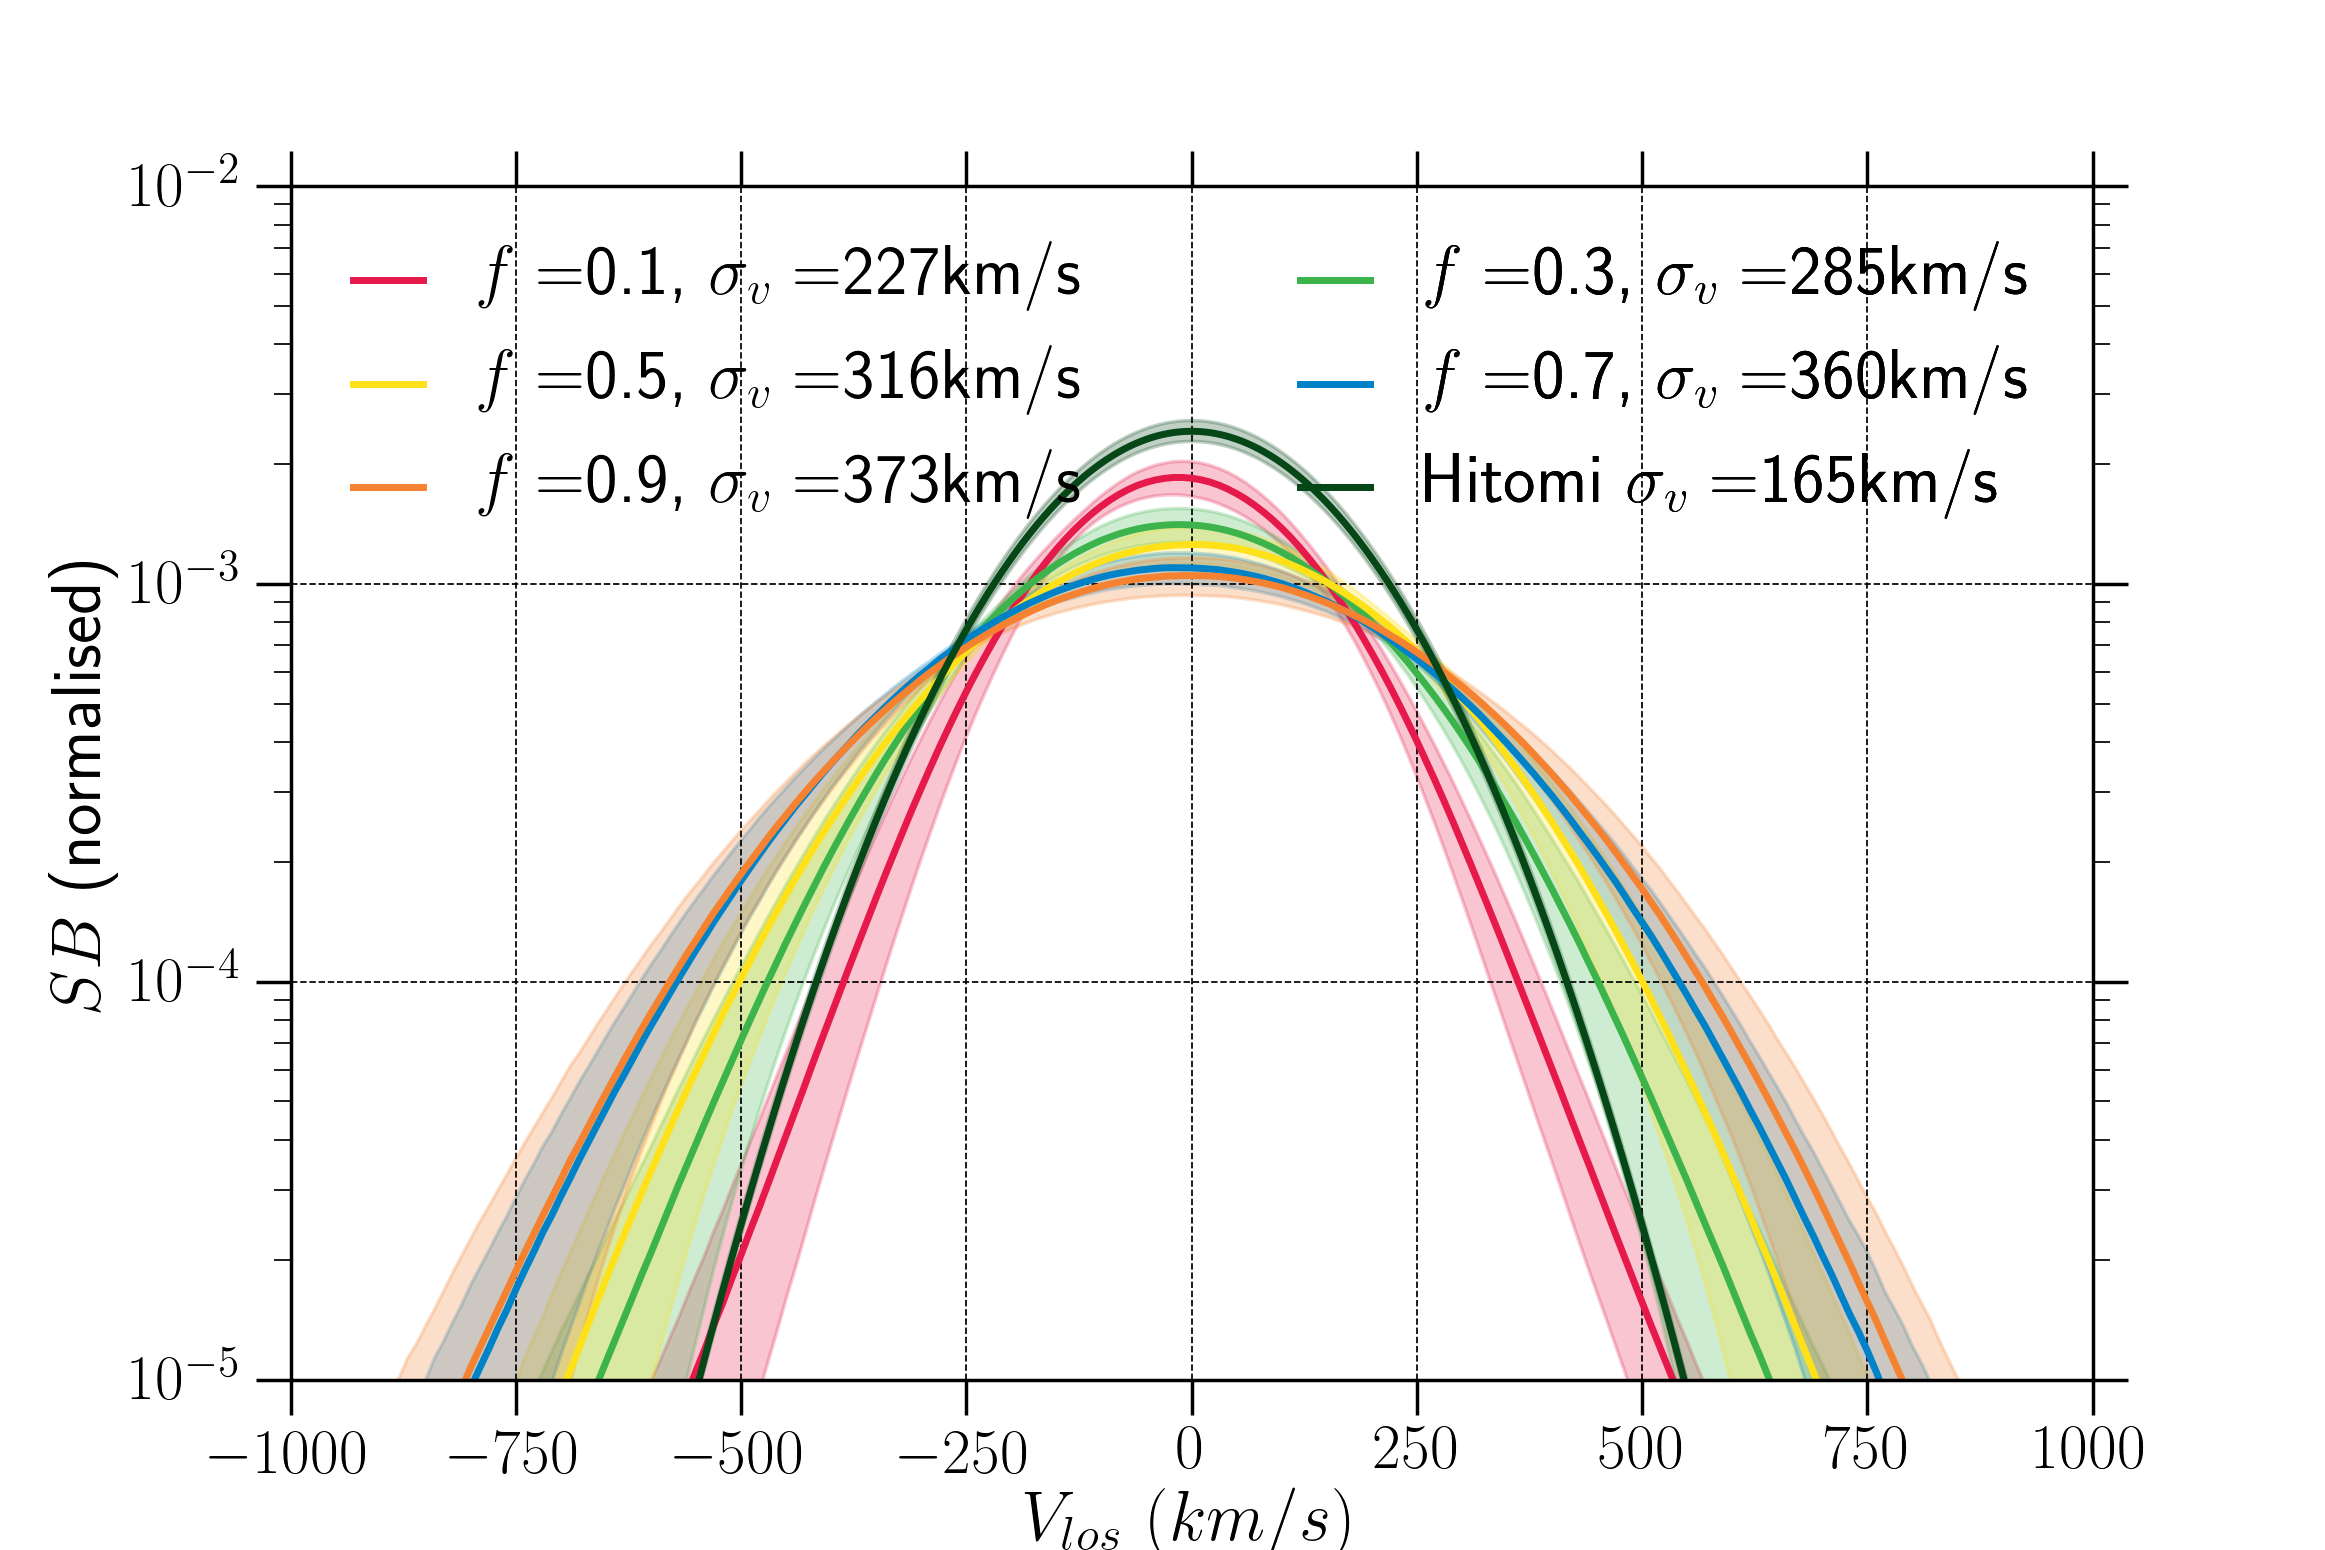
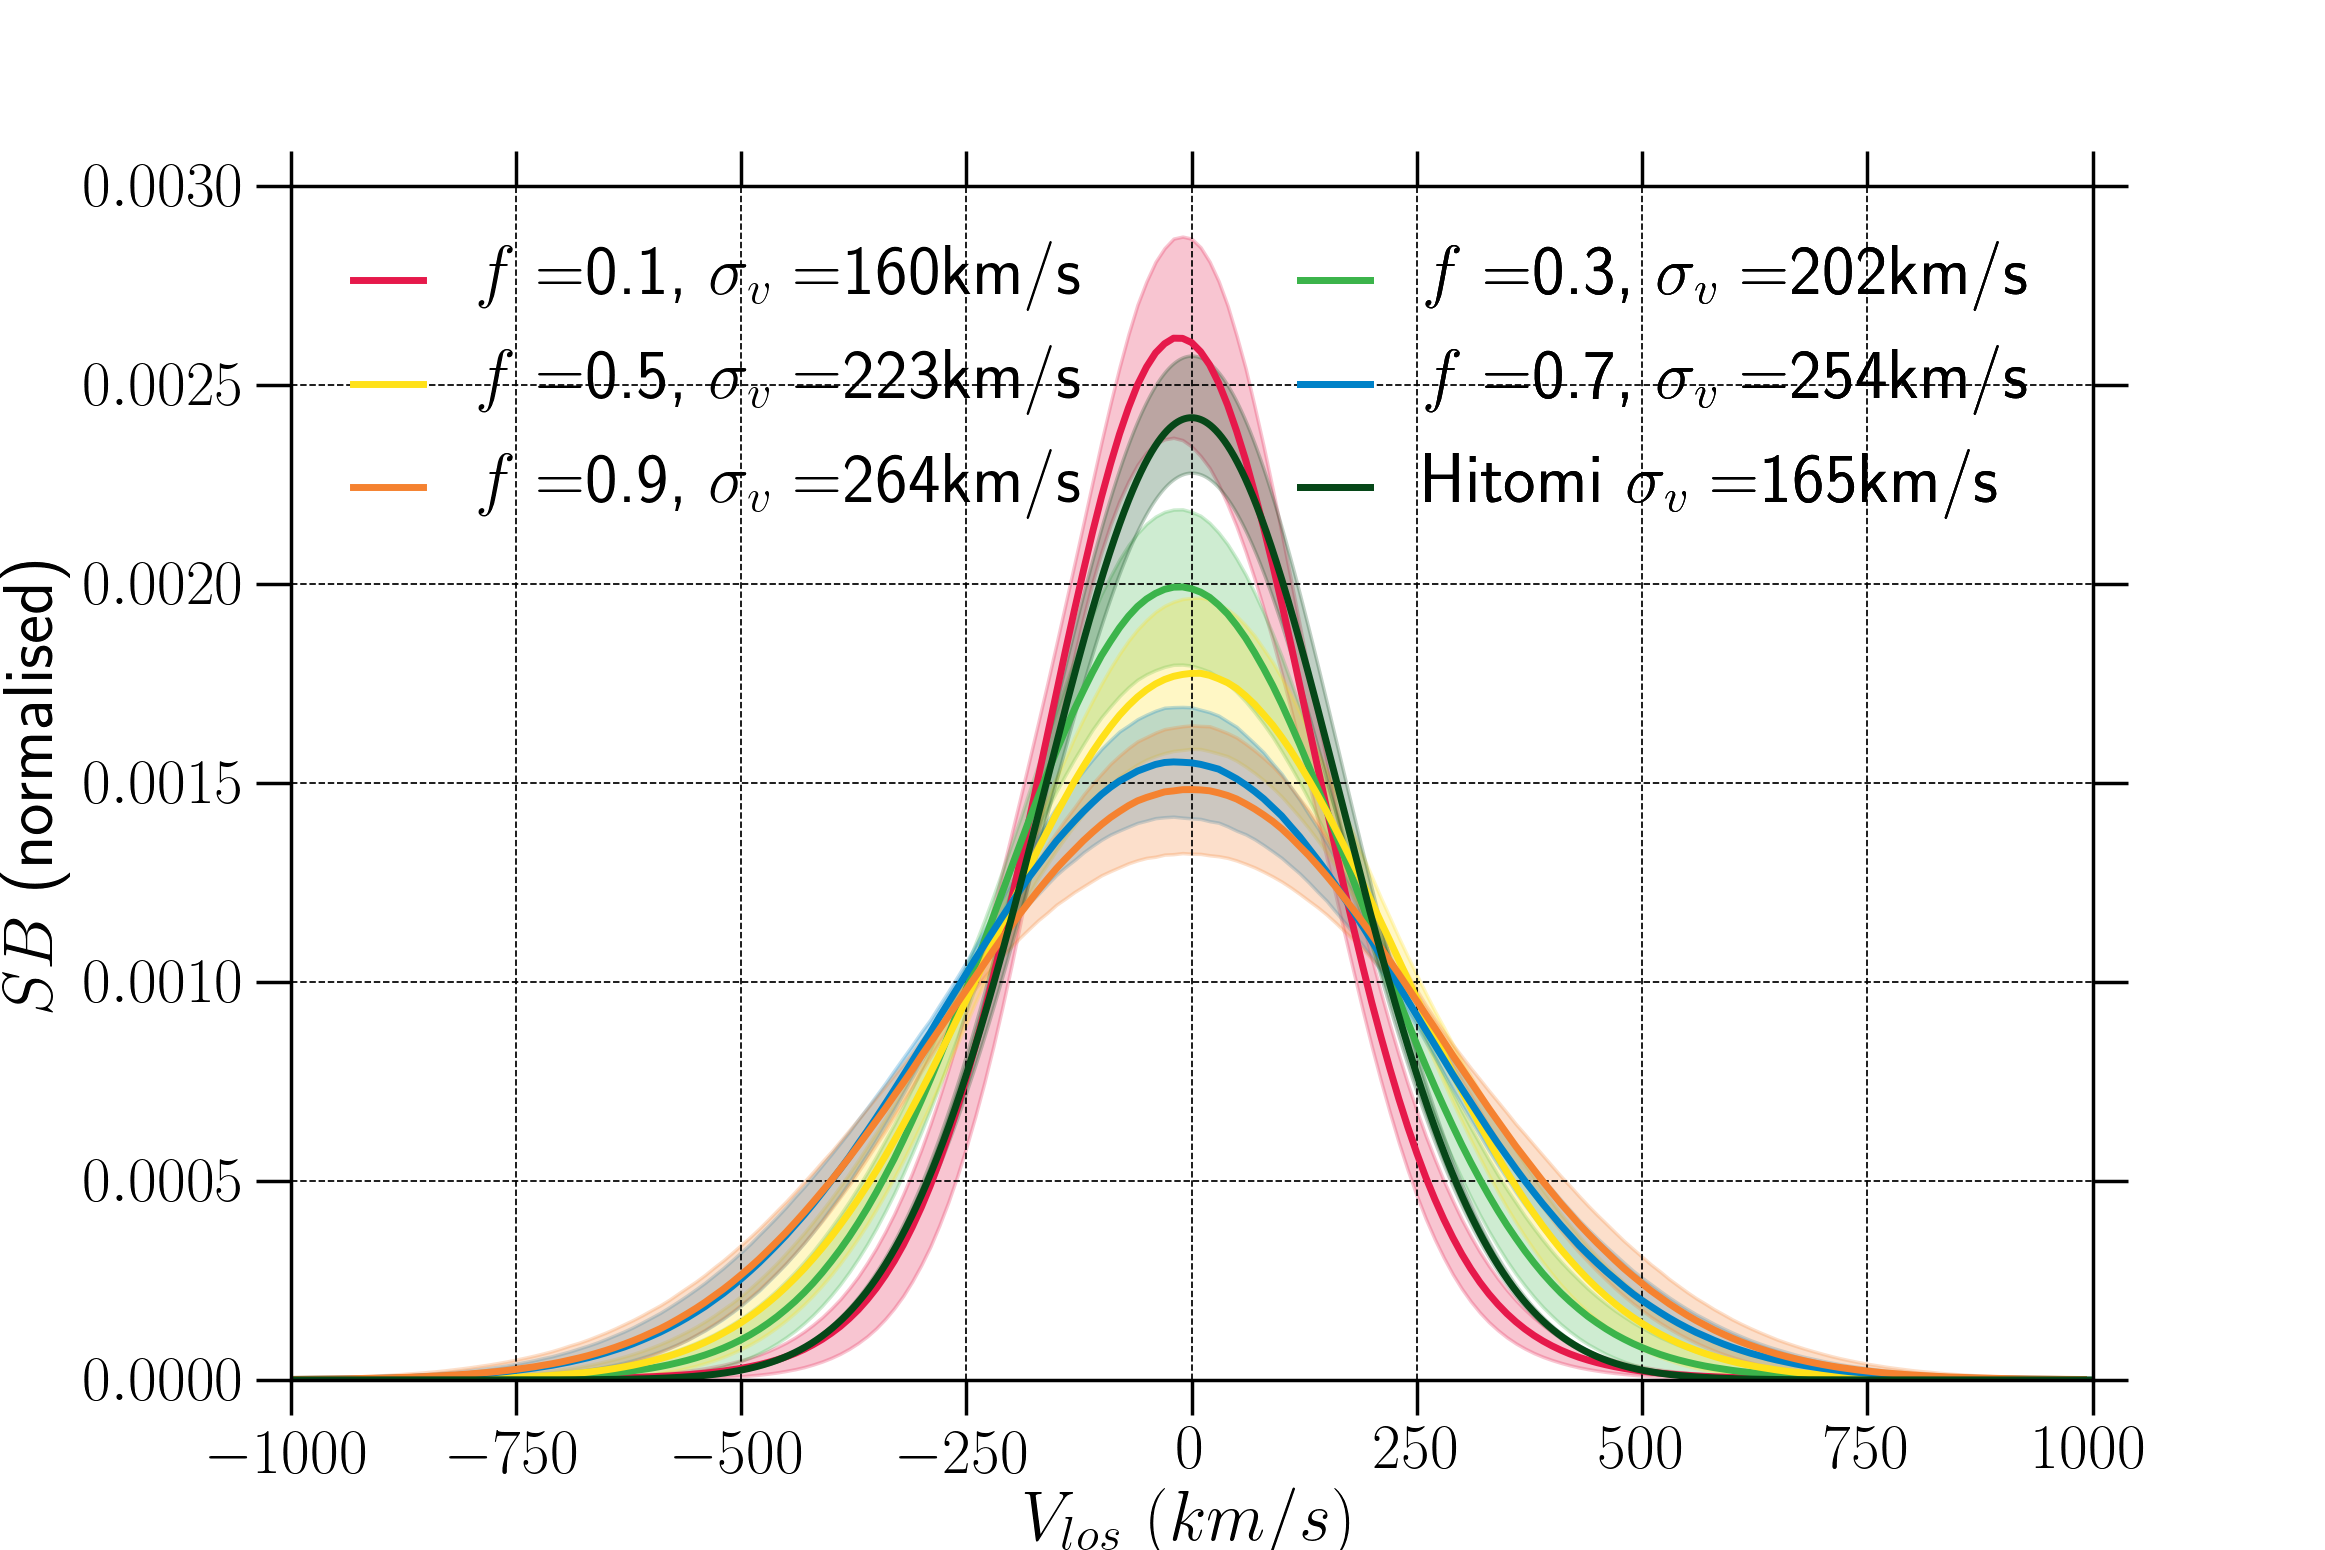
Edited sb-vlos plots

diff --git a/surface_brightness/sb_vlos_pdf_BDh.py b/surface_brightness/sb_vlos_pdf_BDh.py
@@ -56,7 +56,7 @@ ax.tick_params(axis='both', which='minor', direction='out', length=5, width=0.5,
 
 #define the gaussian gunction with all parameters
 def f(x, mu, sigma, height): 
-	return height * 1/(np.sqrt(2.*np.pi)*sigma)*np.exp(-((x-mu)/sigma)**2.)
+	return height * 1/(np.sqrt(2.*np.pi)*sigma)*np.exp(-0.5*((x-mu)/sigma)**2.)
 x=np.arange(-1000., 1000., 0.1)
 
 
@@ -82,7 +82,7 @@ for i1 in xrange(0, start_time.size):
 	popt, pcov = curve_fit(f, x1, dist_data, sigma=del_dist_data, bounds=([-100., 0., 0.], [100., 1000., 5e2]))
 	#popt, pcov = curve_fit(f, x1, dist_data, sigma=del_dist_data)
 	perr = np.sqrt(np.diag(pcov))
-
+	print popt, perr
 	# prepare confidence level curves
 	nstd = 1. # to draw 1-sigma intervals
 	popt_up = popt+nstd*perr
@@ -107,6 +107,9 @@ sb_legend2.get_frame().set_alpha(0.)
 #ax.legend()
 
 ax.set_xlim(-1e3, 1e3)
-ax.set_ylim(1e-5, 1e-2)
-ax.set_yscale('log')
+ax.set_ylim(1e-6, 3e-3)
 plt.savefig('sb-vlos-pdf-BDh.png',dpi=250)
+ax.set_yscale('log')
+ax.set_ylim(1e-6, 1e-2)
+plt.savefig('sb-vlos-pdf-log-BDh.png',dpi=250)
+

diff --git a/surface_brightness/sb_vlos_pdf.py b/surface_brightness/sb_vlos_pdf.py
@@ -56,7 +56,7 @@ ax.tick_params(axis='both', which='minor', direction='out', length=5, width=0.5,
 
 #define the gaussian gunction with all parameters
 def f(x, mu, sigma, height): 
-	return height * 1/(np.sqrt(2.*np.pi)*sigma)*np.exp(-((x-mu)/sigma)**2.)
+	return height * 1/(np.sqrt(2.*np.pi)*sigma)*np.exp(-0.5*((x-mu)/sigma)**2.)
 x=np.arange(-1000., 1000., 0.1)
 
 
@@ -107,6 +107,9 @@ sb_legend2.get_frame().set_alpha(0.)
 #ax.legend()
 
 ax.set_xlim(-1e3, 1e3)
+ax.set_ylim(1.e-5, 3e-3)
+plt.savefig('sb-vlos-pdf.png',dpi=250)
 ax.set_ylim(1.e-5, 1e-2)
 ax.set_yscale('log')
-plt.savefig('sb-vlos-pdf.png',dpi=250)
+plt.savefig('sb-vlos-pdf-log.png',dpi=250)
+
